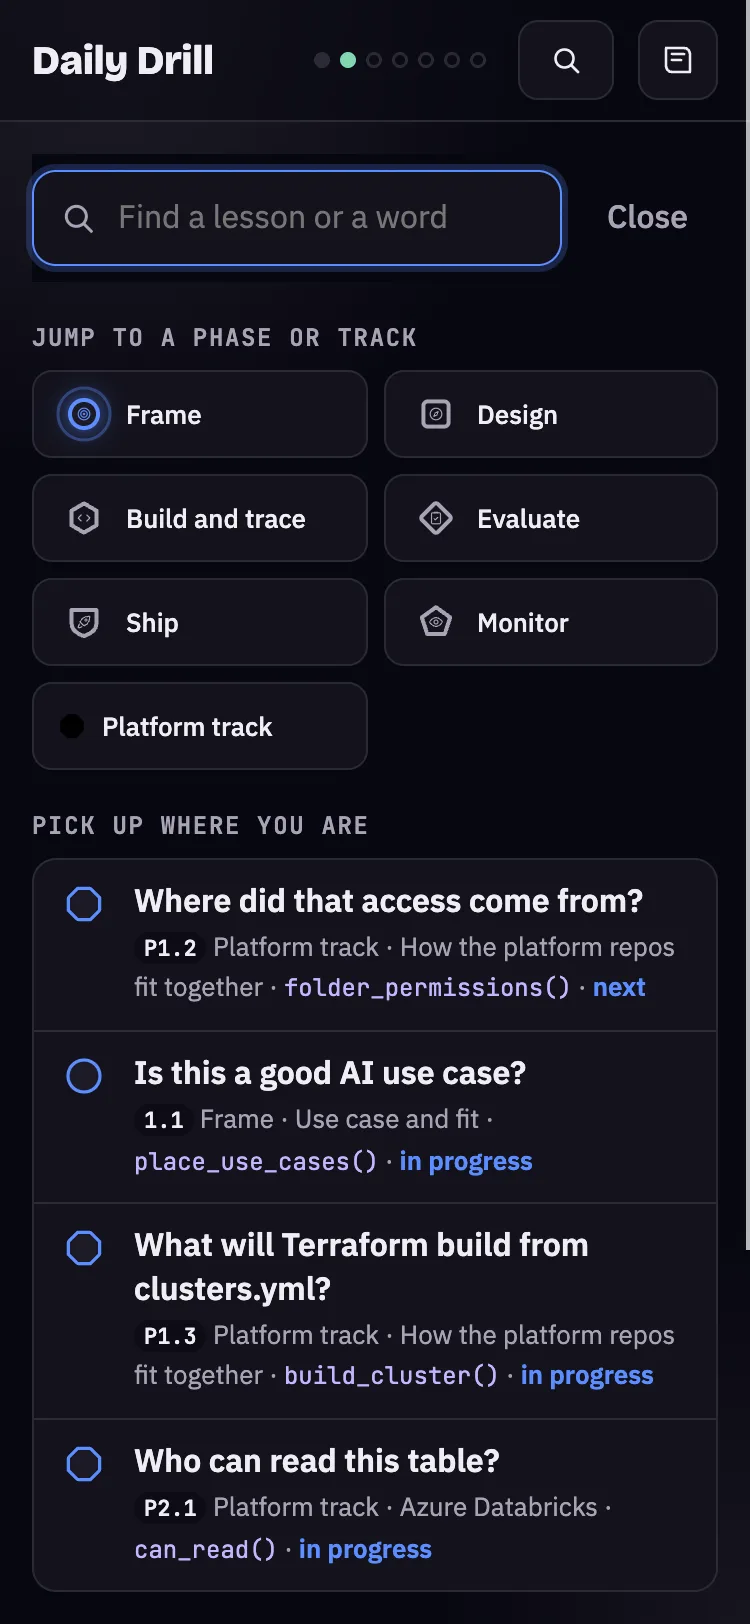
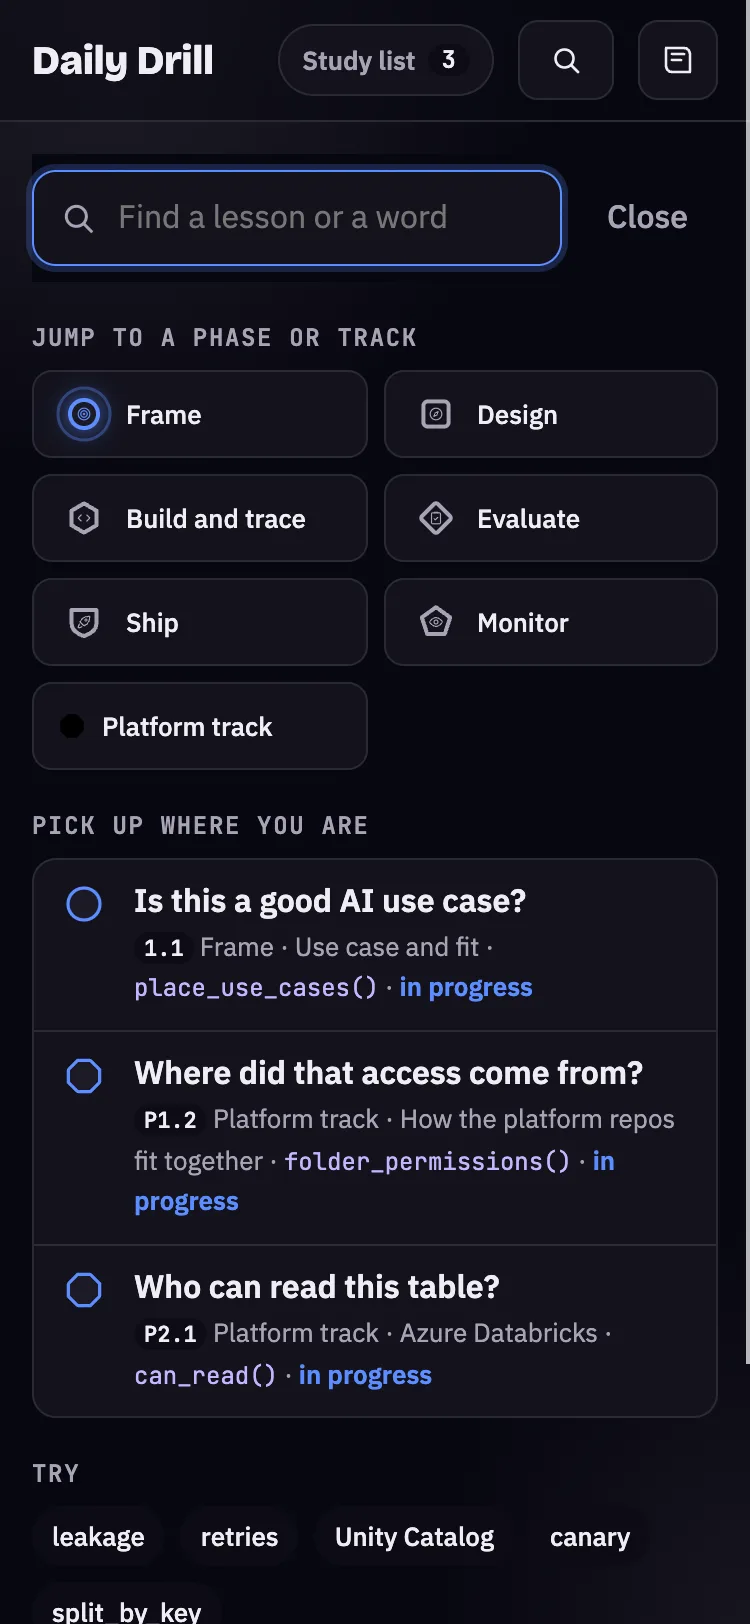
Screen gallery: the study row and list replace the tray, and a Practice screen
Retakes every picture from main, adds saved items so the study list has
something to show on a fresh database, and documents the practice questions.

diff --git a/docs/screens/README.md b/docs/screens/README.md
@@ -183,15 +183,41 @@ they did in the lesson, and what's next. "Done for today" is the primary button.
 
 **What draws it.** `showDone()` in `views`, reached from `goNext()` on the last step.
 
-## The study tray
+## A lesson: Practice (platform lessons)
 
-![The study tray open on a phone](study-tray-phone-dusk.webp)
+![A practice question on a phone](practice-phone-dusk.webp)
 
-**What the learner sees.** Everything they saved, in three tabs (To review, Still learning, Got
-it), with seals for each spaced review. Closed, it is a small bar at the bottom.
+**What the learner sees.** In platform lessons, Build is a short run of questions instead of code:
+a piece of evidence (a YAML file, a chain of stops, a plan, a claim, a prompt), then one plain
+question with three answers. "Give me a clue" comes first, then the answer; the dots show how far
+along they are. Some questions are "Fix the YAML": edit the file until it passes. Python stays
+one tap away.
 
-**What draws it.** `renderPocket()`, `openPocket()` in `the pocket`; saved items come from the
-backend (`study` docs).
+**What draws it.** `qfRender()`, `qfPick()`, `qfHelp()` and `QF` in the `practice questions` section; Fix the
+YAML is `yamlRead()` and `yamlCheck()`, mirrored in Python by `content/yaml_rules.py`. The content
+is `exercise(practice=practice(asks=[ask(...), fix(...)]))` in the lesson.
+
+**Change it safely.** One question per screen, clue before answer. Each `ask` needs exactly one
+right answer and a `clue`; a `fix` needs a start that fails and an answer that passes (tests check
+both).
+
+## The study list
+
+| On Home | Opened |
+|---|---|
+| ![The study list row on Home](study-row-phone-dusk.webp) | ![The study list opened](study-list-phone-dusk.webp) |
+
+**What the learner sees.** Closed, one quiet row under the Today card: a ring with a count and
+"3 learning · 2 to review". It never floats over a lesson or pulses. Tapping it opens the sheet:
+everything they saved, in three tabs (To review, Still learning, Got it), with seals for each
+spaced review. Due reviews also show as one line on the Today card ("Also: 2 quick reviews").
+
+**What draws it.** `studyRowHtml()`, `renderPocket()` and `openPocket()` in
+`page/study-list.js`; styles `.studyrow`, `.reviewline` and `.pocket` in `page/pocket.css`. Saved
+items come from the backend (`study` docs).
+
+**Change it safely.** Keep it out of the lesson screens: it appears when asked for. The row is
+hidden when nothing is saved.
 
 ## Search
 
